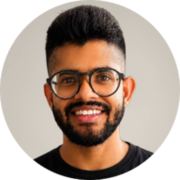
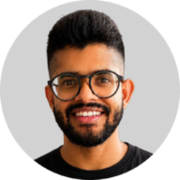
chore(brand): Refresh the token sheet header and copy the website's public set (refs #10)
The runtime sheet header drops its commit pin, public/ is an exact copy of the
website's v2.1.0 public folder, and the stale public/favicon.ico is removed.

diff --git a/app/brand-tokens.css b/app/brand-tokens.css
@@ -1,20 +1,9 @@
-/* ============================================================
-   VENDORED COPY — do not edit here.
-
+/* VENDORED COPY — do not edit here.
    Source: dileepadev/docs/brand/brand-tokens.css
-   Vendored: brand tokens v2.1.0
-
-   This is a copy, and a copy can drift. When the canonical file
-   changes, re-copy it; never patch this one in place. The only
-   permitted local change is the one below, which the design system
-   asks Next.js apps to make.
-
-   CHANGED FROM SOURCE: the Google Fonts @import is removed. Manrope
-   and JetBrains Mono load through next/font in app/layout.tsx, which
-   self-hosts them and avoids a render-blocking request to a third
-   party. --font-sans and --font-mono are re-pointed at the next/font
-   variables in globals.css. Everything else is identical.
-   ============================================================ */
+   Brand version: 2.1.0.
+   Adaptation: only the Google Fonts @import is removed; fonts load via
+   next/font in app/layout.tsx. All remaining source bytes are unchanged.
+   See docs/brand-source.md for provenance and the refresh procedure. */
 
 /* ============================================================
    CANONICAL TOKEN SHEET - do not fork, do not re-declare.
@@ -39,6 +28,7 @@
    muted.
    Every pairing below is verified against WCAG AA minimum.
    ============================================================ */
+
 
 :root {
   /* --- raw palette (never reference these directly in components) --- */

diff --git a/docs/brand-source.md b/docs/brand-source.md
@@ -1,0 +1,26 @@
+# Brand source
+
+Brand version **2.1.0**, vendored from [`dileepadev`](https://github.com/dileepadev/dileepadev)'s
+`docs/brand/`, which owns the originals.
+
+| Canonical source in `dileepadev` | Copy here | Adaptation |
+| --- | --- | --- |
+| `docs/brand/brand-tokens.css` | `app/brand-tokens.css` | Remove only the Google Fonts import; load the same faces and weights through next/font in app/layout.tsx |
+| `docs/brand/brand-tokens.css` | `docs/brand-tokens.css` | None |
+| `docs/brand/brand-guide.md` | `docs/brand-guide.md` | None |
+| `docs/brand/design-system.md` | `docs/design-system.md` | None |
+| `DESIGN.md` | `DESIGN.md` | None |
+| `docs/brand/favicon/favicon.ico` | `app/favicon.ico` | None |
+| `docs/brand/favicon/`, `og.png`, `og2.png`, `profile-picture/` | `public/` (every file the website serves from its own `public/`) | None. Copied from the website's `v2.1.0` tag, so the manifest names the website; it is not linked from the layout |
+
[1 lines of base64/hex data omitted]
+
+The runtime sheet's vendor header records the source and sole font-loading
+adaptation. Components use semantic variables; do not patch either copy or
+copy palette values into components. Application layout rules belong in the
+app's global styles. Both themes use Manrope 400/500/700 and JetBrains Mono
+400/500.
+
+To refresh, copy the files from the root's latest release, preserve only the
+documented font-loading adaptation, and run the app's checks and both-theme
+browser review. These vendored files are not another asset host.
